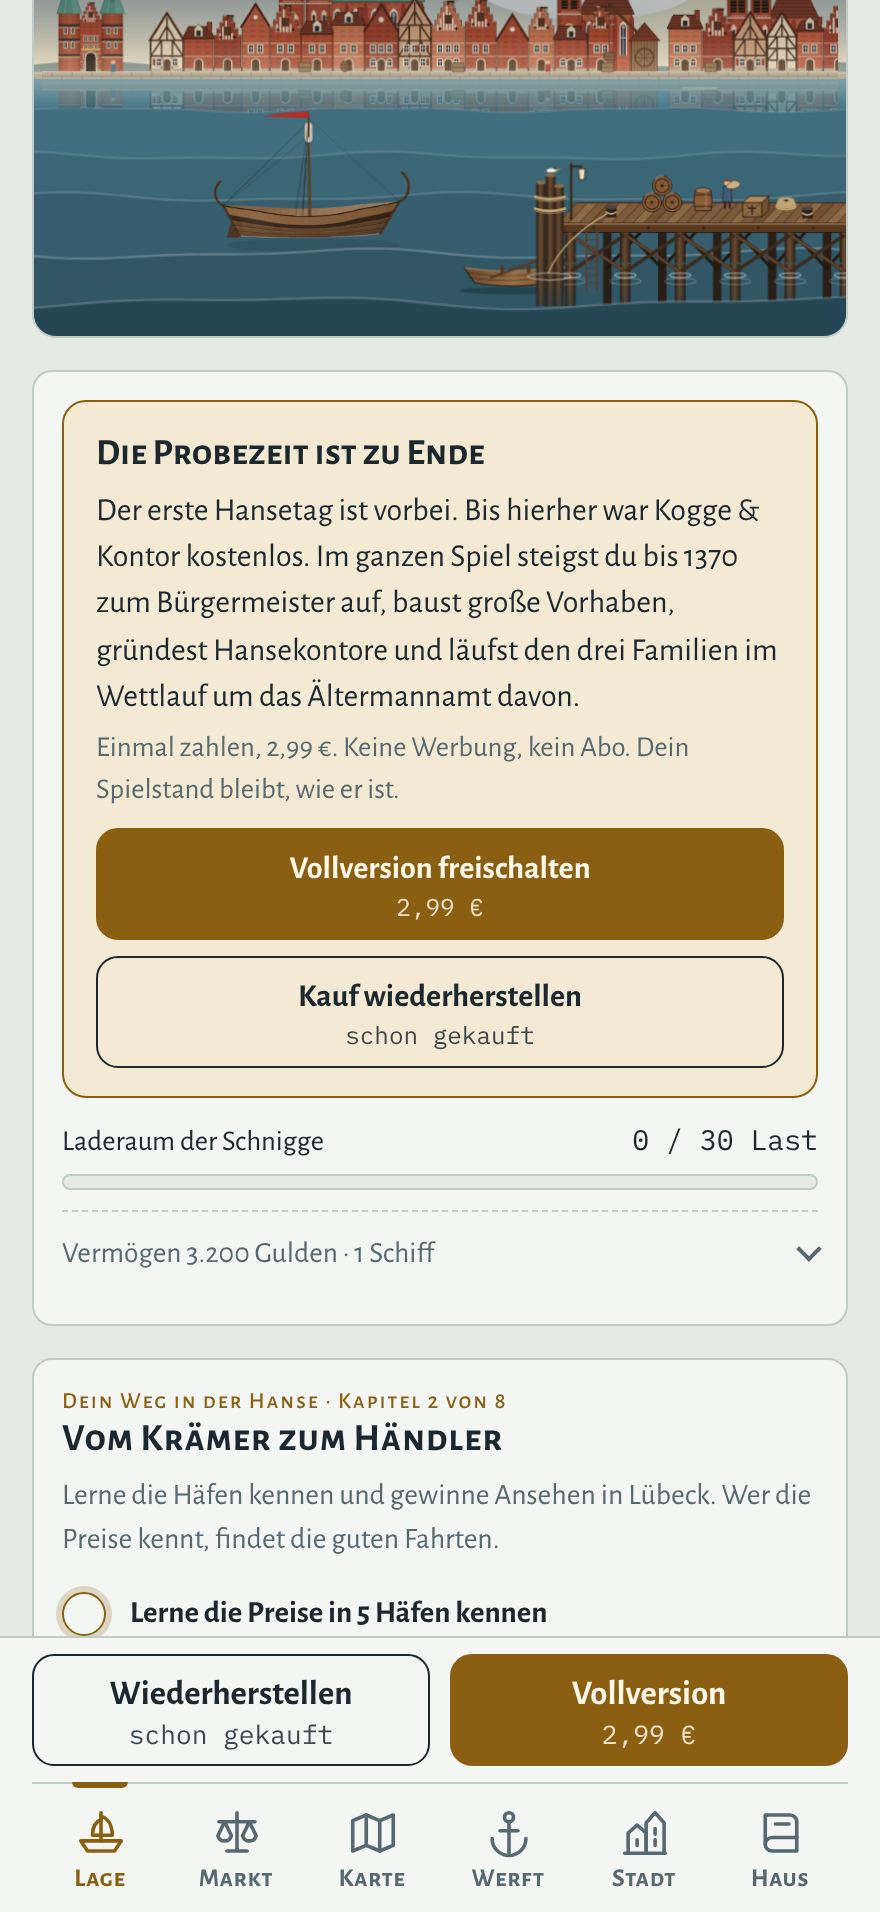
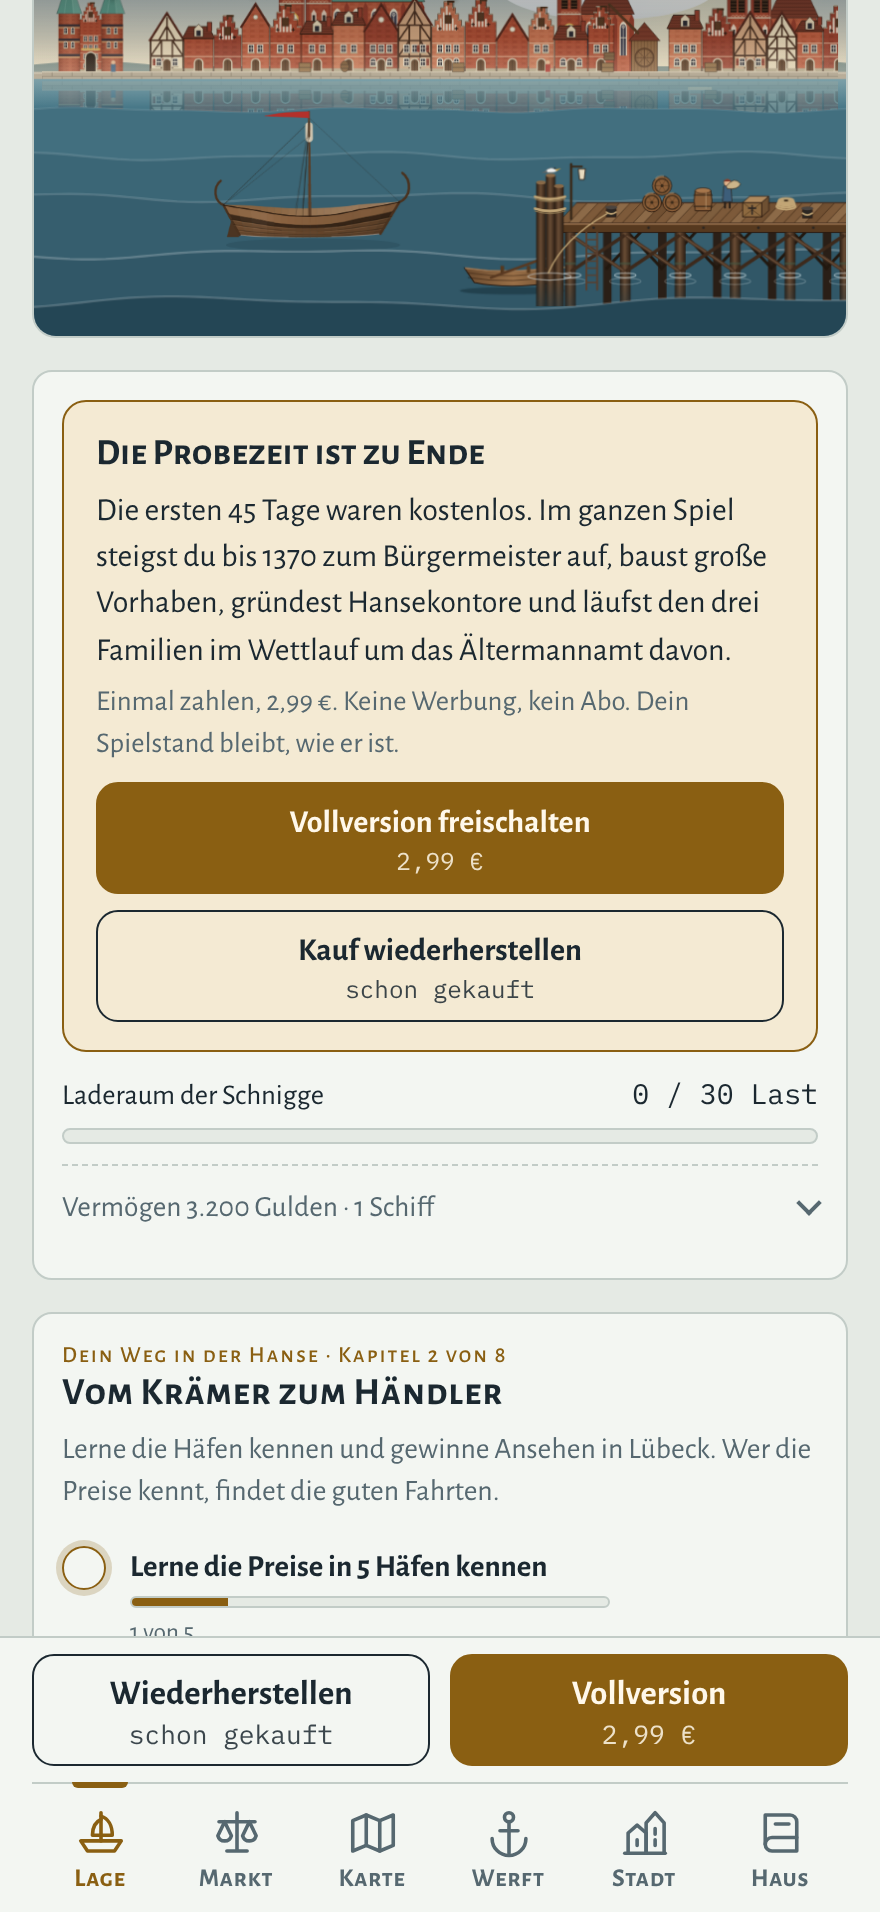
Probezeit: die ersten 45 Spieltage statt bis zum ersten Hansetag
Claude-Session: https://claude.ai/code/session_01DGdLExjZJnF1EPBuaZetbo

diff --git a/src/kogge-kontor.html b/src/kogge-kontor.html
@@ -3372,7 +3372,7 @@ em.rep.warn{background:#b5523a}
   // ───────── Probezeit und Vollversion (ab Version 47) ─────────
   // KK_TARGET: 'app' (iPhone-App mit In-App-Kauf), 'web' (Browser, nur Probezeit), sonst ganzes Spiel
   const TARGET = window.KK_TARGET === 'app' || window.KK_TARGET === 'web' ? window.KK_TARGET : 'full';
-  const TRIAL_DAY = dayOf(1357, 6, 24);   // erster Hansetag in Lübeck
+  const TRIAL_DAY = 45;   // Probezeit: die ersten 45 Spieltage, bis 16. Mai 1356
   const FULL_KEY = 'kogge-kontor-vollversion';
   const APP_URL = window.KK_APP_URL || '';
   const full = {on:TARGET === 'full', price:'2,99 €', busy:false, msg:''};
@@ -3382,17 +3382,17 @@ em.rep.warn{background:#b5523a}
   function fullSet(v) { full.on = !!v; try { localStorage.setItem(FULL_KEY, v ? '1' : '0'); } catch (e) {} }
   function trialDay() {
     if (full.on || st._temp || (TARGET === 'web' && st.grand)) return;
-    if (!st.trialWarn && st.day >= TRIAL_DAY - 45 && st.day < TRIAL_DAY) {
+    if (!st.trialWarn && st.day >= TRIAL_DAY - 10 && st.day < TRIAL_DAY) {
       st.trialWarn = true;
       announce(TARGET === 'app'
-        ? `Am 24. Juni 1357 tagt die Hanse zum ersten Mal in Lübeck. Bis dahin spielst du kostenlos; danach geht es mit der Vollversion weiter, einmalig ${full.price}.`
-        : 'Am 24. Juni 1357 tagt die Hanse zum ersten Mal in Lübeck. Bis dahin kannst du im Browser spielen; danach geht es in der App für iPhone weiter.', 'rank');
+        ? `Noch ${TRIAL_DAY - st.day} Tage Probezeit, bis zum 16. Mai 1356. Danach segelt dein Handelshaus mit der Vollversion weiter, einmalig ${full.price}.`
+        : `Noch ${TRIAL_DAY - st.day} Tage Probezeit im Browser, bis zum 16. Mai 1356. Danach geht es in der App für iPhone weiter.`, 'rank');
     }
     if (!st.trialEnd && st.day >= TRIAL_DAY) {
       st.trialEnd = true;
       announce(TARGET === 'app'
-        ? 'Der erste Hansetag ist vorbei und damit die Probezeit. Mit der Vollversion segelt dein Handelshaus weiter bis zum Frieden von Stralsund.'
-        : 'Der erste Hansetag ist vorbei und damit die Probezeit im Browser. Das ganze Spiel gibt es als App für iPhone.', 'rank');
+        ? 'Die 45 Tage Probezeit sind vorbei. Mit der Vollversion segelt dein Handelshaus weiter bis zum Frieden von Stralsund.'
+        : 'Die 45 Tage Probezeit im Browser sind vorbei. Das ganze Spiel gibt es als App für iPhone.', 'rank');
     }
   }
   function fullOk() {
@@ -3431,7 +3431,7 @@ em.rep.warn{background:#b5523a}
   function trialHTML() {
     const app = TARGET === 'app';
     return `<div class="endcard trialcard"><h2>Die Probezeit ist zu Ende</h2>` +
-      `<p>Der erste Hansetag ist vorbei. ${app ? 'Bis hierher war Kogge &amp; Kontor kostenlos.' : 'Bis hierher kannst du Kogge &amp; Kontor im Browser spielen.'} ` +
+      `<p>${app ? 'Die ersten 45 Tage waren kostenlos.' : 'Die ersten 45 Tage kannst du im Browser spielen.'} ` +
       `Im ganzen Spiel steigst du bis 1370 zum Bürgermeister auf, baust große Vorhaben, gründest Hansekontore und läufst den drei Familien im Wettlauf um das Ältermannamt davon.</p>` +
       (app ? `<p class="small">Einmal zahlen, ${esc(full.price)}. Keine Werbung, kein Abo. Dein Spielstand bleibt, wie er ist.</p>` +
           `<div class="ybtns"><button class="btn primary" type="button" data-act="full-buy"${full.busy ? ' disabled' : ''}><b>${full.busy ? 'Einen Moment …' : 'Vollversion freischalten'}</b><small>${esc(full.price)}</small></button>` +
@@ -3450,10 +3450,10 @@ em.rep.warn{background:#b5523a}
     if (TARGET === 'full') return '';
     if (TARGET === 'app') return `</div><div class="xfer"><h3>Vollversion</h3>` + (full.on
       ? `<span class="small">Freigeschaltet. Danke, dass du Kogge &amp; Kontor gekauft hast!</span>`
-      : `<span class="small">Kostenlos bis zum ersten Hansetag am 24. Juni 1357, danach mit der Vollversion für einmalig ${esc(full.price)}.</span>` +
+      : `<span class="small">Die ersten 45 Spieltage sind kostenlos, bis zum 16. Mai 1356. Danach geht es mit der Vollversion weiter, einmalig ${esc(full.price)}.</span>` +
         `<div class="row2"><button class="ybtn" type="button" data-slot="fullbuy"${full.busy ? ' disabled' : ''}>Vollversion freischalten</button><button class="ybtn" type="button" data-slot="fullrestore"${full.busy ? ' disabled' : ''}>Kauf wiederherstellen</button></div>` +
         (full.msg ? `<span class="small" style="color:var(--bad)">${esc(full.msg)}</span>` : ''));
-    return `</div><div class="xfer"><h3>App für iPhone</h3><span class="small">Im Browser spielst du bis zum ersten Hansetag am 24. Juni 1357. Das ganze Spiel gibt es als App, einmalig ${esc(full.price)}. Deinen Spielstand nimmst du mit dem Code unten mit.</span>` +
+    return `</div><div class="xfer"><h3>App für iPhone</h3><span class="small">Im Browser spielst du die ersten 45 Spieltage, bis zum 16. Mai 1356. Das ganze Spiel gibt es als App, einmalig ${esc(full.price)}. Deinen Spielstand nimmst du mit dem Code unten mit.</span>` +
       (APP_URL ? `<div class="row2">${appLink('ybtn', 'Im App Store ansehen')}</div>` : `<span class="small">Die App erscheint in Kürze im App Store.</span>`);
   }
   // Impressum und Datenschutz in der App (Angaben kommen aus dem App-Bau, nicht aus dem Spiel)

diff --git a/app/store/texte.md b/app/store/texte.md
@@ -20,7 +20,7 @@ Alles zum Hineinkopieren in App Store Connect. Längenangaben sind Apples Höchs
 
 ## Werbetext (170, jederzeit änderbar)
 
-Lübeck, 1356. Kaufe Tuch in Brügge, verkaufe es in Nowgorod und werde vor den drei großen Familien Ältermann der Hanse. Kostenlos bis zum ersten Hansetag.
+Lübeck, 1356. Kaufe Tuch in Brügge, verkaufe es in Nowgorod und werde vor den drei großen Familien Ältermann der Hanse. Die ersten 45 Tage sind kostenlos.
 
 ## Beschreibung (4000)
 
@@ -42,7 +42,7 @@ GESCHICHTE ZUM MITSPIELEN
 Die Jahre 1356 bis 1370 mit ihren echten Ereignissen: Pest, Krieg gegen Waldemar von Dänemark, Kölner Konföderation und Frieden von Stralsund.
 
 FAIR
-• Kostenlos bis zum ersten Hansetag am 24. Juni 1357
+• Die ersten 45 Spieltage kostenlos
 • Danach einmal die Vollversion kaufen, kein Abo
 • Keine Werbung, keine Datensammlung, spielt offline
 • Drei Spielstände, Übertragung per Code
@@ -71,7 +71,7 @@ Hanse,Handel,Kaufmann,Mittelalter,Lübeck,Kogge,Wirtschaft,Segeln,Patrizier,Stra
 | Beschreibung (DE, 45) | Das ganze Spiel bis 1370 freischalten |
 | Familienfreigabe | Ein (empfohlen) |
 | Screenshot für die Prüfung | store/iap_review.png |
-| Hinweis für die Prüfung | Die Vollversion kann jederzeit gekauft werden: unten „Spielstände und Einstellungen“ → Abschnitt „Vollversion“. Nach der Probezeit (24. Juni 1357 im Spiel) erscheint der Kauf zusätzlich auf dem Startbildschirm. |
+| Hinweis für die Prüfung | Die Vollversion kann jederzeit gekauft werden: unten „Spielstände und Einstellungen“ → Abschnitt „Vollversion“. Nach der Probezeit (45 Spieltage, 16. Mai 1356 im Spiel) erscheint der Kauf zusätzlich auf dem Startbildschirm. |
 
 ## App-Datenschutz („Datenschutzhinweise“ in App Store Connect)
 
@@ -96,7 +96,7 @@ Verwendet die App Verschlüsselung? **Nein** (in der App bereits eingetragen: IT
 ## Hinweise für die App-Prüfung (App Review Information)
 
 Kogge & Kontor ist ein Handelsspiel zur Hansezeit und läuft vollständig offline. Kein Konto nötig.
-Kostenlos spielbar bis zum ersten Hansetag am 24. Juni 1357 (Spielzeit). Danach hält die Zeit an, bis die Vollversion gekauft ist (nicht verbrauchbarer In-App-Kauf „kogge_kontor_vollversion“).
+Die ersten 45 Spieltage sind kostenlos (bis 16. Mai 1356 im Spiel). Danach hält die Zeit an, bis die Vollversion gekauft ist (nicht verbrauchbarer In-App-Kauf „kogge_kontor_vollversion“).
 Zum Testen des Kaufs: unten auf „Spielstände und Einstellungen“ tippen, Abschnitt „Vollversion“ → „Vollversion freischalten“. „Kauf wiederherstellen“ steht direkt daneben.
 
 ## Screenshots (iPhone 6,9 Zoll, 1320 × 2868)
